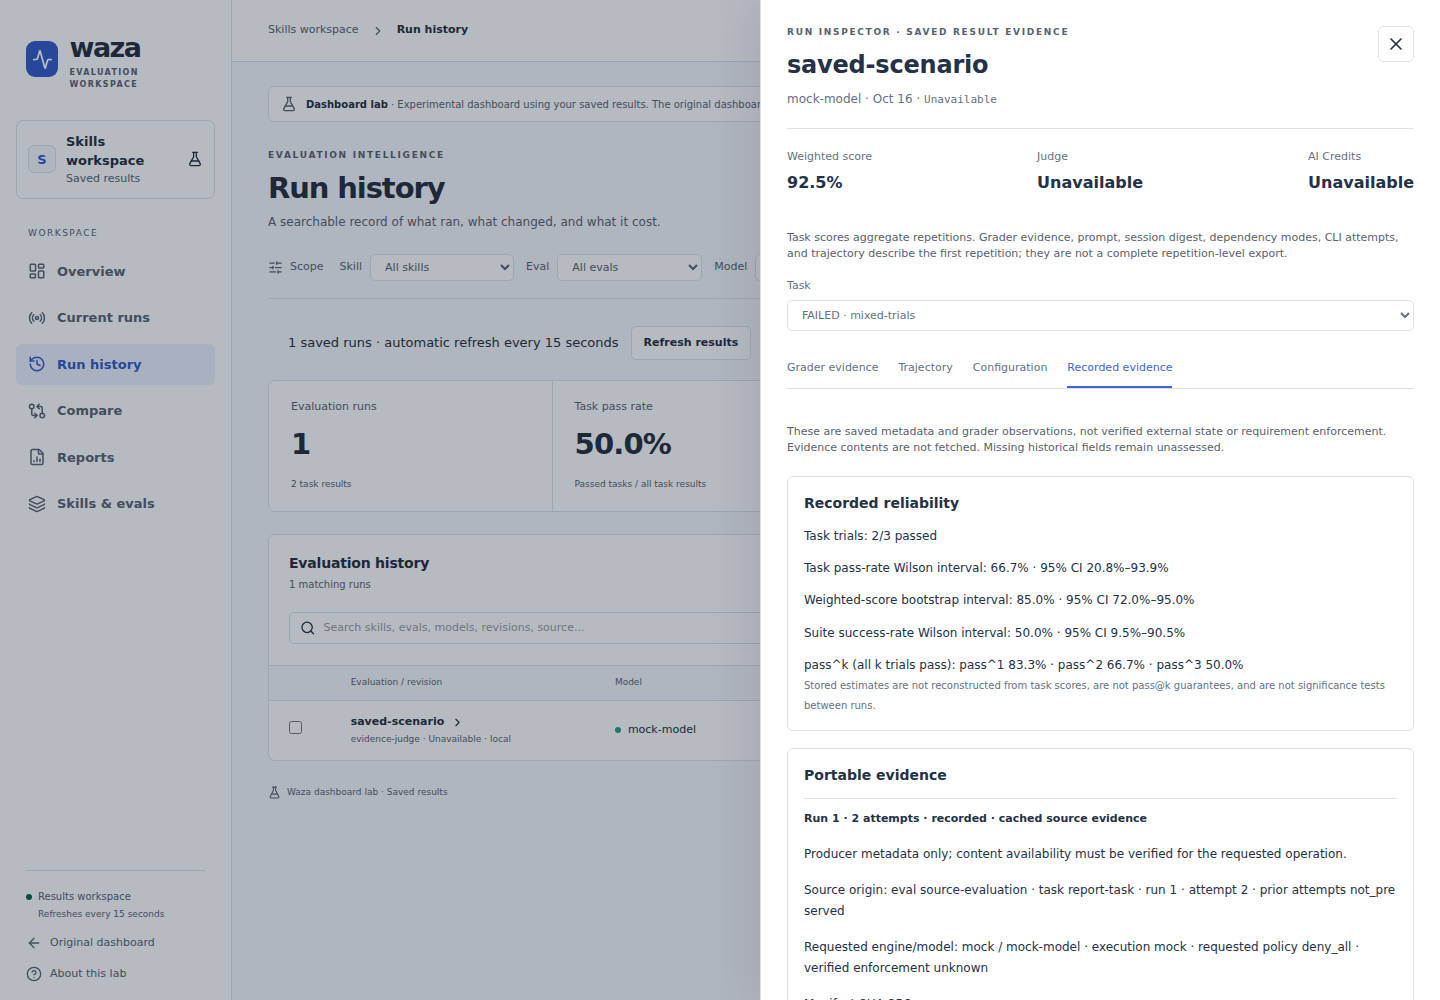
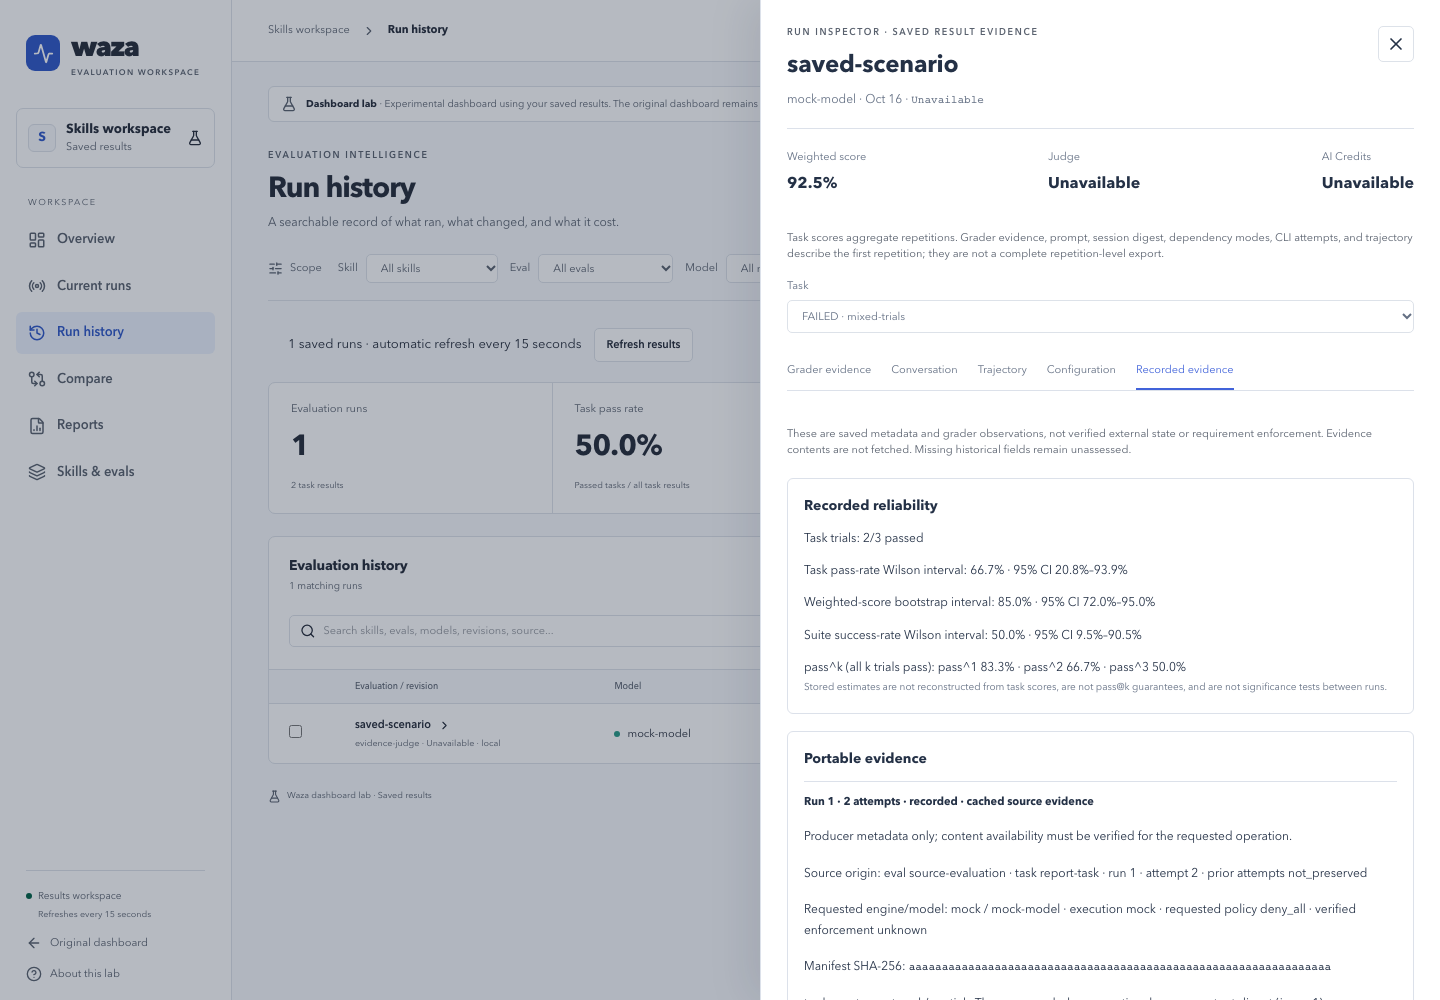
fix(lab): cover conversation navigation and screenshots #752

diff --git a/web/e2e/dashboard-lab-real.spec.ts b/web/e2e/dashboard-lab-real.spec.ts
@@ -905,15 +905,18 @@ test.describe("Real dashboard lab", () => {
     await page.getByRole("button", { name: "custom-skill", exact: true }).first().click();
     const dialog = page.getByRole("dialog");
     const graders = dialog.getByRole("tab", { name: "Grader evidence" });
+    const conversation = dialog.getByRole("tab", { name: "Conversation", exact: true });
     const trajectory = dialog.getByRole("tab", { name: "Trajectory", exact: true });
     const configuration = dialog.getByRole("tab", { name: "Configuration" });
     const evidence = dialog.getByRole("tab", { name: "Recorded evidence" });
     await expect(graders).toHaveAttribute("tabindex", "0");
+    await expect(conversation).toHaveAttribute("tabindex", "-1");
     await expect(trajectory).toHaveAttribute("tabindex", "-1");
     await expect(configuration).toHaveAttribute("tabindex", "-1");
     await expect(evidence).toHaveAttribute("tabindex", "-1");
     await graders.focus();
     for (const [key, selected, name] of [
+      ["ArrowRight", conversation, "Conversation"],
       ["ArrowRight", trajectory, "Trajectory"],
       ["End", evidence, "Recorded evidence"],
       ["ArrowRight", graders, "Grader evidence"],

diff --git a/web/dist/index.html b/web/dist/index.html
@@ -4,7 +4,7 @@
     <meta charset="UTF-8" />
     <meta name="viewport" content="width=device-width, initial-scale=1.0" />
     <title>waza — eval dashboard</title>
-    <script type="module" crossorigin src="/assets/index-D1lsIq1X.js"></script>
+    <script type="module" crossorigin src="/assets/index-LeUYn4J9.js"></script>
     <link rel="stylesheet" crossorigin href="/assets/index-DVpua-aE.css">
   </head>
   <body class="bg-zinc-900 text-zinc-100 antialiased">
